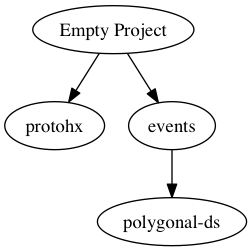
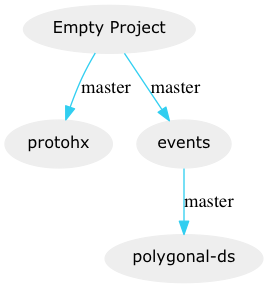
- added base format to graph - edges are labeled with version number

diff --git a/duell.py b/duell.py
@@ -4661,8 +4661,8 @@ class duell_helpers_Template:
 			while (_g_head is not None):
 				e3 = None
 				def _hx_local_0():
-					nonlocal _g_head
 					nonlocal _g_val
+					nonlocal _g_head
 					_g_val = (_g_head[0] if 0 < len(_g_head) else None)
 					_g_head = (_g_head[1] if 1 < len(_g_head) else None)
 					return _g_val
@@ -6477,7 +6477,7 @@ _hx_classes["duell.objects.dependencies.IFileContentCreator"] = duell_objects_de
 class duell_objects_dependencies_DotFileContentCreator:
 	_hx_class_name = "duell.objects.dependencies.DotFileContentCreator"
 	_hx_fields = ["content"]
-	_hx_methods = ["parse", "getContent", "getFilename"]
+	_hx_methods = ["parse", "getContent", "getFilename", "getBaseFormat"]
 	_hx_interfaces = [duell_objects_dependencies_IFileContentCreator]
 
 	def __init__(self):
@@ -6493,9 +6493,15 @@ class duell_objects_dependencies_DotFileContentCreator:
 		while (_g < len(subnodes)):
 			subnode = (subnodes[_g] if _g >= 0 and _g < len(subnodes) else None)
 			_g = (_g + 1)
+			lib = subnode.get_lib()
+			label = None
+			if (lib is not None):
+				label = ((" [label=\"" + HxOverrides.stringOrNull(lib.version)) + "\"]")
+			else:
+				label = ""
 			_hx_local_1 = self
 			_hx_local_2 = _hx_local_1.content
-			_hx_local_1.content = (("null" if _hx_local_2 is None else _hx_local_2) + HxOverrides.stringOrNull(((((("    \"" + ("null" if nodeName is None else nodeName)) + "\" -> \"") + HxOverrides.stringOrNull(subnode.get_name())) + "\";\n"))))
+			_hx_local_1.content = (("null" if _hx_local_2 is None else _hx_local_2) + HxOverrides.stringOrNull(((((((("    \"" + ("null" if nodeName is None else nodeName)) + "\" -> \"") + HxOverrides.stringOrNull(subnode.get_name())) + "\"") + ("null" if label is None else label)) + ";\n"))))
 			_hx_local_1.content
 		_g1 = 0
 		while (_g1 < len(subnodes)):
@@ -6504,10 +6510,13 @@ class duell_objects_dependencies_DotFileContentCreator:
 			self.parse(subnode1)
 
 	def getContent(self):
-		return (("digraph G {\n" + HxOverrides.stringOrNull(self.content)) + "}")
+		return ((("digraph G {\n" + HxOverrides.stringOrNull(self.getBaseFormat())) + HxOverrides.stringOrNull(self.content)) + "}")
 
 	def getFilename(self):
 		return "dotFile.dot"
+
+	def getBaseFormat(self):
+		return (((("    node [fontname=Verdana,fontsize=12]\n" + "    node [style=filled]\n") + "    node [fillcolor=\"#EEEEEE\"]\n") + "    node [color=\"#EEEEEE\"]\n") + "    edge [color=\"#31CEF0\"]\n")
 
 	@staticmethod
 	def _hx_empty_init(_hx_o):
